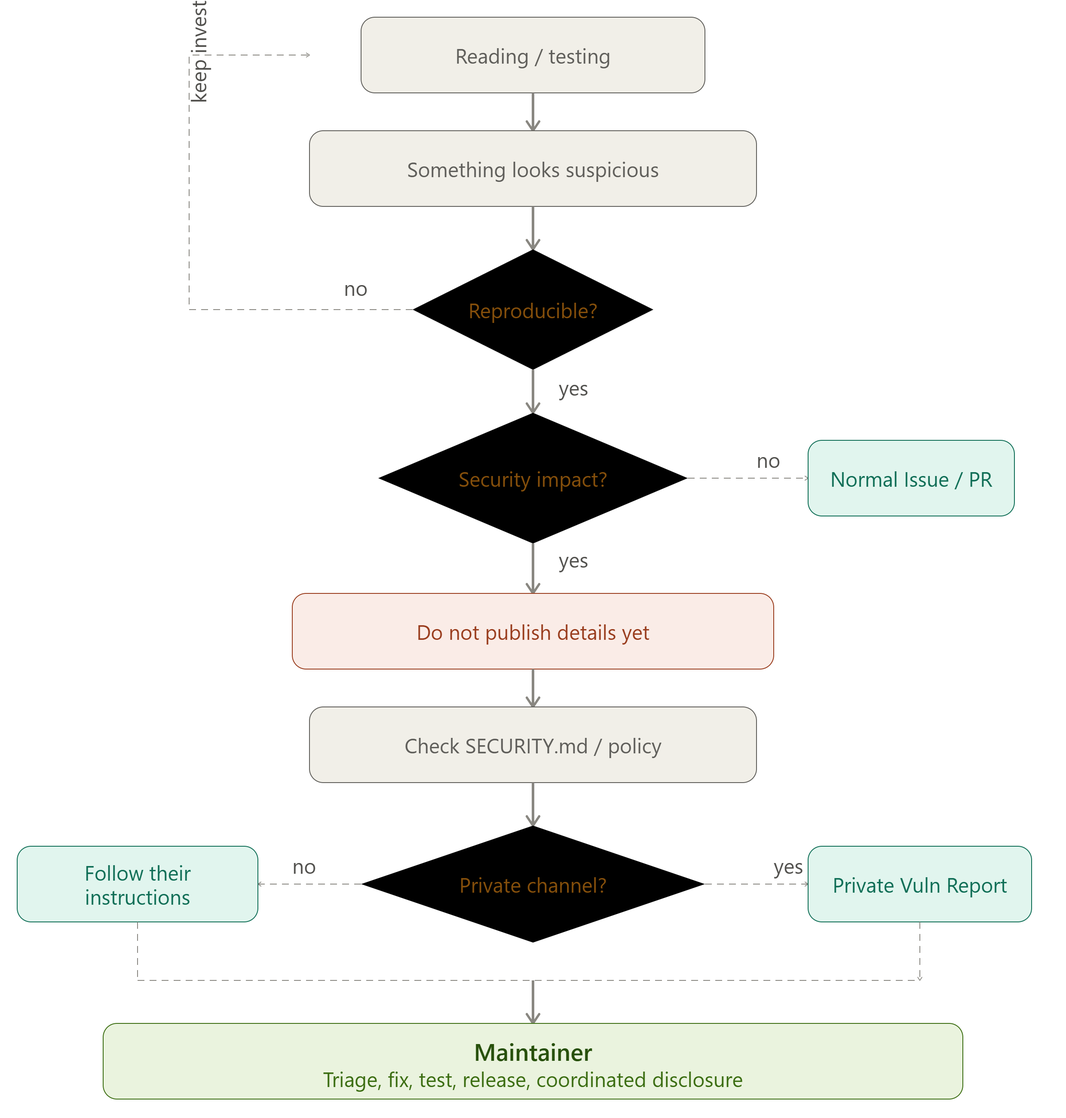
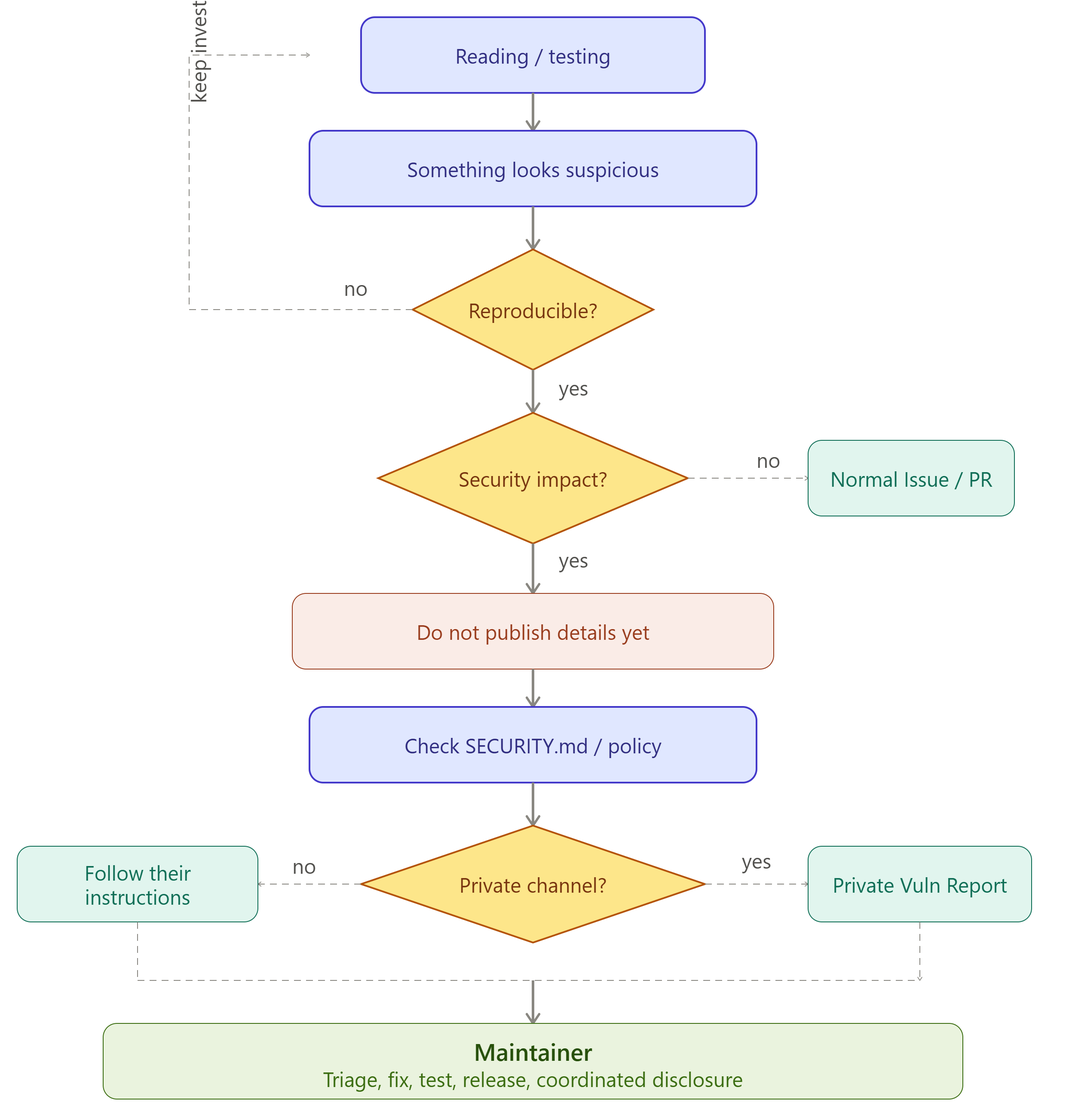
Group paragraphs in the responsible disclosure post
The Spanish draft came in short single sentences and each one was laid
out as its own <p>, which read as scattered next to the other two posts:
39 paragraphs averaging 21 words here, against 14/32 for Clean Code and
11/64 for the Canary post. Now 23 paragraphs averaging 35 words, with no
wording changed, only related sentences pulled into the same paragraph
in both languages. "Wow." and the closing line about revoking privileges
stay on their own, they work as beats.

Keys merged and renumbered accordingly. DE/EN parity: 334 keys each.

Also swaps in the recoloured decision tree diagram (same filename and
dimensions, so no markup change).

diff --git a/js/translations.js b/js/translations.js
@@ -319,57 +319,41 @@ const translations = {
     rd_title: 'Ich habe eine Schwachstelle in einem Open-Source-Projekt gefunden. Und jetzt?',
     rd_date: '15. August 2026',
     rd_summary: 'Wie ich beim Ausprobieren einer Open-Source-Anwendung auf ein Sicherheitsproblem gestoßen bin, und was ich dabei über Responsible Disclosure, GitHub Security Advisories und CWE gelernt habe.',
-    rd_p1: 'Ich habe eine Open-Source-Anwendung ausprobiert, als ich auf etwas gestoßen bin, mit dem ich nicht gerechnet hatte.',
-    rd_p2: 'Am Anfang war es einfach dieses Gefühl: "Moment mal... sollte das gerade wirklich passieren?"',
-    rd_p3: 'Ich habe weiter nachgeforscht und angefangen zu vermuten, dass es sich um ein Sicherheitsproblem handeln könnte.',
-    rd_p4: 'Und da kam ein Gefühl auf, das sich deutlich von dem unterscheidet, das man hat, wenn man irgendeinen beliebigen Bug findet.',
-    rd_p5: 'Wow.',
-    rd_p6: 'Auf einmal war ich motiviert. Ich wollte verstehen, was da passiert, es überprüfen und, falls es wirklich eine Schwachstelle war, dabei helfen, sie zu beheben.',
-    rd_p7: 'Aber zuerst stand das Wichtigste an: es reproduzieren.',
-    rd_p8: 'Ich wollte keinen Verdacht und kein False Positive melden. Ich musste sicher sein, dass das Verhalten echt ist, verstehen, unter welchen Bedingungen es auftritt, und prüfen, welche Auswirkung es haben kann.',
-    rd_p9: 'Nachdem ich es reproduziert und besser verstanden hatte, was da vor sich geht, kam die nächste Frage: Wie meldet man eigentlich verantwortungsvoll eine Schwachstelle in einem Open-Source-Projekt?',
-    rd_p10: 'Und an dieser Stelle habe ich etwas entdeckt, das meiner Meinung nach mehr Entwicklerinnen und Entwickler kennen sollten: GitHub Security Advisories und Private Vulnerability Reporting.',
+    rd_p1: 'Ich habe eine Open-Source-Anwendung ausprobiert, als ich auf etwas gestoßen bin, mit dem ich nicht gerechnet hatte. Am Anfang war es einfach dieses Gefühl: "Moment mal... sollte das gerade wirklich passieren?" Ich habe weiter nachgeforscht und angefangen zu vermuten, dass es sich um ein Sicherheitsproblem handeln könnte. Und da kam ein Gefühl auf, das sich deutlich von dem unterscheidet, das man hat, wenn man irgendeinen beliebigen Bug findet.',
+    rd_p2: 'Wow.',
+    rd_p3: 'Auf einmal war ich motiviert. Ich wollte verstehen, was da passiert, es überprüfen und, falls es wirklich eine Schwachstelle war, dabei helfen, sie zu beheben. Aber zuerst stand das Wichtigste an: es reproduzieren.',
+    rd_p4: 'Ich wollte keinen Verdacht und kein False Positive melden. Ich musste sicher sein, dass das Verhalten echt ist, verstehen, unter welchen Bedingungen es auftritt, und prüfen, welche Auswirkung es haben kann. Nachdem ich es reproduziert und besser verstanden hatte, was da vor sich geht, kam die nächste Frage: Wie meldet man eigentlich verantwortungsvoll eine Schwachstelle in einem Open-Source-Projekt?',
+    rd_p5: 'Und an dieser Stelle habe ich etwas entdeckt, das meiner Meinung nach mehr Entwicklerinnen und Entwickler kennen sollten: GitHub Security Advisories und Private Vulnerability Reporting.',
     rd_h_issue: 'Nicht jeder Bug sollte zu einem Issue werden',
-    rd_issue_1: 'Wenn du in einem Open-Source-Projekt einen ganz normalen Bug findest, ist es vermutlich üblich, ein Issue zu eröffnen oder einen Pull Request vorzubereiten.',
-    rd_issue_2: 'Eine Schwachstelle ist aber etwas anderes.',
-    rd_issue_3: 'Wenn wir die Details eines Sicherheitsproblems sofort veröffentlichen, sorgen wir womöglich dafür, dass die Information jeden erreicht, bevor die Maintainer Zeit hatten, es zu beheben.',
-    rd_issue_4: 'Und das kann besonders problematisch sein, wenn das Projekt Nutzer hat, die eine verwundbare Version einsetzen.',
-    rd_issue_5: 'Deshalb gibt es das Konzept Responsible Disclosure: das Problem so zu kommunizieren, dass das Projekt eine faire Gelegenheit bekommt, es zu untersuchen und zu beheben, bevor die Details öffentlich werden.',
+    rd_issue_1: 'Wenn du in einem Open-Source-Projekt einen ganz normalen Bug findest, ist es vermutlich üblich, ein Issue zu eröffnen oder einen Pull Request vorzubereiten. Eine Schwachstelle ist aber etwas anderes.',
+    rd_issue_2: 'Wenn wir die Details eines Sicherheitsproblems sofort veröffentlichen, sorgen wir womöglich dafür, dass die Information jeden erreicht, bevor die Maintainer Zeit hatten, es zu beheben. Und das kann besonders problematisch sein, wenn das Projekt Nutzer hat, die eine verwundbare Version einsetzen.',
+    rd_issue_3: 'Deshalb gibt es das Konzept Responsible Disclosure: das Problem so zu kommunizieren, dass das Projekt eine faire Gelegenheit bekommt, es zu untersuchen und zu beheben, bevor die Details öffentlich werden.',
     rd_h_advisory: 'GitHub Security Advisory',
-    rd_adv_1: 'GitHub hat für genau solche Situationen ein eigenes Werkzeug: Private Vulnerability Reporting.',
-    rd_adv_2: 'Die Idee finde ich ziemlich gut. Statt ein öffentliches Issue zu eröffnen, in dem es alle sehen können und das Problem offenliegt, kannst du einen privaten Kanal nutzen: Der Maintainer bekommt den Report, untersucht ihn, bereitet einen Fix vor und testet ihn, veröffentlicht ihn, und erst danach folgt die koordinierte Offenlegung.',
+    rd_adv_1: 'GitHub hat für genau solche Situationen ein eigenes Werkzeug: Private Vulnerability Reporting. Die Idee finde ich ziemlich gut. Statt ein öffentliches Issue zu eröffnen, in dem es alle sehen können und das Problem offenliegt, kannst du einen privaten Kanal nutzen: Der Maintainer bekommt den Report, untersucht ihn, bereitet einen Fix vor und testet ihn, veröffentlicht ihn, und erst danach folgt die koordinierte Offenlegung.',
     rd_alt_issue_vs_advisory: 'Vergleich zwischen einem öffentlichen Issue, bei dem alle das Problem sofort sehen, und einem privaten Security Advisory, das die Details während Untersuchung, Fix, Tests und Release vertraulich hält, bis hin zur koordinierten Offenlegung.',
-    rd_adv_3: 'Während dieses gesamten Prozesses bleiben die Details der Schwachstelle privat.',
-    rd_adv_4: 'Und genau das finde ich an diesem Mechanismus interessant. Du versuchst nicht, unbegrenzt zu verstecken, dass es ein Problem gibt. Du gibst dem Projekt etwas sehr Wichtiges: Zeit.',
-    rd_adv_5: 'Zeit, um zu verstehen, was passiert. Zeit, um eine Lösung vorzubereiten. Zeit, um sie zu testen. Und Zeit, um eine korrigierte Version zu veröffentlichen, bevor öffentlich erklärt wird, wie sich die verwundbare Version ausnutzen lässt.',
+    rd_adv_2: 'Während dieses gesamten Prozesses bleiben die Details der Schwachstelle privat. Und genau das finde ich an diesem Mechanismus interessant. Du versuchst nicht, unbegrenzt zu verstecken, dass es ein Problem gibt. Du gibst dem Projekt etwas sehr Wichtiges: Zeit.',
+    rd_adv_3: 'Zeit, um zu verstehen, was passiert. Zeit, um eine Lösung vorzubereiten. Zeit, um sie zu testen. Und Zeit, um eine korrigierte Version zu veröffentlichen, bevor öffentlich erklärt wird, wie sich die verwundbare Version ausnutzen lässt.',
     rd_h_cwe: 'Etwas, das ich unterwegs entdeckt habe: CWE',
-    rd_cwe_1: 'Während ich das Problem untersucht und dokumentiert habe, bin ich nebenbei auch tiefer in CWE eingestiegen, Common Weakness Enumeration.',
-    rd_cwe_2: 'CWE wird von MITRE gepflegt und liefert eine gemeinsame Klassifikation, um verschiedene Arten von Softwareschwächen zu beschreiben. Zum Beispiel:',
+    rd_cwe_1: 'Während ich das Problem untersucht und dokumentiert habe, bin ich nebenbei auch tiefer in CWE eingestiegen, Common Weakness Enumeration. CWE wird von MITRE gepflegt und liefert eine gemeinsame Klassifikation, um verschiedene Arten von Softwareschwächen zu beschreiben. Zum Beispiel:',
     rd_cwe_item_1: 'CWE-22, Path Traversal',
     rd_cwe_item_2: 'CWE-79, Cross-Site Scripting',
     rd_cwe_item_3: 'CWE-89, SQL Injection',
     rd_cwe_item_4: 'CWE-862, Missing Authorization',
     rd_cwe_item_5: 'CWE-269, Improper Privilege Management',
-    rd_cwe_3: 'Letzteres fand ich besonders interessant, wegen seines Bezugs zu dem Problem, das ich gefunden hatte.',
-    rd_cwe_4: 'CWE-269 beschreibt ganz allgemein Situationen, in denen die Privilegien eines Nutzers nicht korrekt verwaltet werden.',
+    rd_cwe_2: 'Letzteres fand ich besonders interessant, wegen seines Bezugs zu dem Problem, das ich gefunden hatte. CWE-269 beschreibt ganz allgemein Situationen, in denen die Privilegien eines Nutzers nicht korrekt verwaltet werden.',
     rd_alt_cwe269: 'Illustration zu CWE-269, unsachgemäße Verwaltung von Privilegien: Ein Nutzer ohne ausreichende Berechtigungen schafft es, eine Aktion auszuführen, die für ihn gesperrt sein sollte.',
-    rd_cwe_5: 'Und ich glaube, es gibt eine interessante Frage, die wir uns beim Thema Autorisierung stellen können: nicht nur "darf dieser Nutzer das tun?", sondern auch "was passiert, wenn er es nicht mehr darf?"',
-    rd_cwe_6: 'Rechte zu vergeben ist eine Operation. Sie korrekt wieder zu entziehen ebenfalls.',
+    rd_cwe_3: 'Und ich glaube, es gibt eine interessante Frage, die wir uns beim Thema Autorisierung stellen können: nicht nur "darf dieser Nutzer das tun?", sondern auch "was passiert, wenn er es nicht mehr darf?"',
+    rd_cwe_4: 'Rechte zu vergeben ist eine Operation. Sie korrekt wieder zu entziehen ebenfalls.',
     rd_h_whatdo: 'Was mache ich also, wenn mir so etwas begegnet?',
     rd_what_1: 'Es gibt keinen einzigen gültigen Prozess für alle Projekte, aber das hier kann ein guter Ausgangspunkt sein:',
     rd_alt_decision_tree: 'Entscheidungsbaum von dem Moment an, in dem du etwas Verdächtiges findest, bis zur koordinierten Offenlegung: prüfen, ob es reproduzierbar ist, prüfen, ob es eine Sicherheitsauswirkung hat, und in dem Fall dem Prozess für private Schwachstellenmeldungen über Triage, Fix, Tests und Release folgen.',
-    rd_what_2: 'Der erste Teil ist für mich der wichtigste: erst reproduzieren.',
-    rd_what_3: 'Etwas zu finden, das nach einer Schwachstelle aussieht, kann aufregend sein, aber es ist auch leicht, zu schnell Schlüsse zu ziehen.',
-    rd_what_4: 'Eine saubere Reproduktion verändert den Report komplett. Du sagst dann nicht mehr "ich glaube, hier könnte ein Problem sein". Du kannst sagen "ich habe dieses Verhalten unter diesen Bedingungen reproduziert, und das ist die Auswirkung, die ich beobachtet habe".',
-    rd_what_5: 'Das erleichtert den Maintainern die Arbeit enorm.',
+    rd_what_2: 'Der erste Teil ist für mich der wichtigste: erst reproduzieren. Etwas zu finden, das nach einer Schwachstelle aussieht, kann aufregend sein, aber es ist auch leicht, zu schnell Schlüsse zu ziehen.',
+    rd_what_3: 'Eine saubere Reproduktion verändert den Report komplett. Du sagst dann nicht mehr "ich glaube, hier könnte ein Problem sein". Du kannst sagen "ich habe dieses Verhalten unter diesen Bedingungen reproduziert, und das ist die Auswirkung, die ich beobachtet habe". Das erleichtert den Maintainern die Arbeit enorm.',
     rd_h_exp: 'Eine Erfahrung, die mir besonders gefallen hat',
-    rd_exp_1: 'Am meisten überrascht hat mich an alledem, dass das Entdecken einer Schwachstelle etwas ausgelöst hat, womit ich nicht gerechnet hatte: Lust, beizutragen.',
-    rd_exp_2: 'Nicht nur das Problem zu finden und zu sagen "schaut mal, was ich gefunden habe", sondern dabei zu helfen, es zu lösen.',
-    rd_exp_3: 'Und ich glaube, das ist einer der schönen Teile von Open Source. Du kannst gerade eine Anwendung benutzen, aus Neugier Code lesen oder versuchen zu verstehen, wie ein bestimmter Teil des Systems funktioniert, und plötzlich stößt du auf etwas, das es wert ist, repariert zu werden.',
-    rd_exp_4: 'In diesem Moment musst du kein Security Researcher sein. Du brauchst Neugier, du musst überprüfen, was du da siehst, und, falls es wirklich ein Problem ist, es verantwortungsvoll melden.',
-    rd_exp_5: 'GitHub stellt einen Teil der dafür nötigen Infrastruktur bereits bereit.',
-    rd_exp_6: 'Vielleicht lohnt es sich beim nächsten Mal, wenn du auf so etwas stößt, statt direkt ein öffentliches Issue zu eröffnen, erst einmal zu suchen: SECURITY.md, Security Policy, Private Vulnerability Reporting, Security Advisory.',
-    rd_exp_7: 'Vielleicht findest du einen viel besseren Weg, es zu melden. Und nebenbei kannst du dabei richtig viel lernen.',
+    rd_exp_1: 'Am meisten überrascht hat mich an alledem, dass das Entdecken einer Schwachstelle etwas ausgelöst hat, womit ich nicht gerechnet hatte: Lust, beizutragen. Nicht nur das Problem zu finden und zu sagen "schaut mal, was ich gefunden habe", sondern dabei zu helfen, es zu lösen.',
+    rd_exp_2: 'Und ich glaube, das ist einer der schönen Teile von Open Source. Du kannst gerade eine Anwendung benutzen, aus Neugier Code lesen oder versuchen zu verstehen, wie ein bestimmter Teil des Systems funktioniert, und plötzlich stößt du auf etwas, das es wert ist, repariert zu werden.',
+    rd_exp_3: 'In diesem Moment musst du kein Security Researcher sein. Du brauchst Neugier, du musst überprüfen, was du da siehst, und, falls es wirklich ein Problem ist, es verantwortungsvoll melden. GitHub stellt einen Teil der dafür nötigen Infrastruktur bereits bereit.',
+    rd_exp_4: 'Vielleicht lohnt es sich beim nächsten Mal, wenn du auf so etwas stößt, statt direkt ein öffentliches Issue zu eröffnen, erst einmal zu suchen: SECURITY.md, Security Policy, Private Vulnerability Reporting, Security Advisory. Vielleicht findest du einen viel besseren Weg, es zu melden. Und nebenbei kannst du dabei richtig viel lernen.',
 
     footer_text: '© 2026 KettenKI. Entwickelt mit Präzision.',
   },
@@ -694,57 +678,41 @@ const translations = {
     rd_title: 'I found a vulnerability in an Open Source project. What now?',
     rd_date: 'August 15, 2026',
     rd_summary: 'How I ran into a security issue while trying out an Open Source application, and what I learned along the way about responsible disclosure, GitHub Security Advisories and CWE.',
-    rd_p1: 'I was trying out an Open Source application when I found something I did not expect.',
-    rd_p2: 'At first it was simply that feeling of: "Wait... should this be happening?"',
-    rd_p3: 'I kept digging and started to suspect it could be a security issue.',
-    rd_p4: 'And that brought up a feeling quite different from the one you get when you find just any bug.',
-    rd_p5: 'Wow.',
-    rd_p6: 'All of a sudden I felt motivated. I wanted to understand what was going on, verify it and, if it really was a vulnerability, help get it fixed.',
-    rd_p7: 'But before anything else came the most important part: reproducing it.',
-    rd_p8: 'I did not want to report a suspicion or a false positive. I needed to be sure the behaviour was real, to understand under which conditions it happened, and to check what its impact could be.',
-    rd_p9: 'After reproducing it and getting a better picture of what was going on, the next question arrived: how do you responsibly report a vulnerability in an Open Source project?',
-    rd_p10: 'And this is where I discovered something I think more developers should know about: GitHub Security Advisories and Private Vulnerability Reporting.',
+    rd_p1: 'I was trying out an Open Source application when I found something I did not expect. At first it was simply that feeling of: "Wait... should this be happening?" I kept digging and started to suspect it could be a security issue. And that brought up a feeling quite different from the one you get when you find just any bug.',
+    rd_p2: 'Wow.',
+    rd_p3: 'All of a sudden I felt motivated. I wanted to understand what was going on, verify it and, if it really was a vulnerability, help get it fixed. But before anything else came the most important part: reproducing it.',
+    rd_p4: 'I did not want to report a suspicion or a false positive. I needed to be sure the behaviour was real, to understand under which conditions it happened, and to check what its impact could be. After reproducing it and getting a better picture of what was going on, the next question arrived: how do you responsibly report a vulnerability in an Open Source project?',
+    rd_p5: 'And this is where I discovered something I think more developers should know about: GitHub Security Advisories and Private Vulnerability Reporting.',
     rd_h_issue: 'Not every bug should become an Issue',
-    rd_issue_1: 'When you find a normal bug in an Open Source project, the usual thing is probably to open an Issue or prepare a Pull Request.',
-    rd_issue_2: 'But a vulnerability is different.',
-    rd_issue_3: 'If we immediately publish the details of a security problem, we may be handing that information to anyone before the maintainers have had time to fix it.',
-    rd_issue_4: 'And that can be especially problematic if the project has users running a vulnerable version.',
-    rd_issue_5: 'That is why the concept of responsible disclosure exists: communicating the problem in a way that gives the project a reasonable opportunity to investigate and fix it before the details become public.',
+    rd_issue_1: 'When you find a normal bug in an Open Source project, the usual thing is probably to open an Issue or prepare a Pull Request. But a vulnerability is different.',
+    rd_issue_2: 'If we immediately publish the details of a security problem, we may be handing that information to anyone before the maintainers have had time to fix it. And that can be especially problematic if the project has users running a vulnerable version.',
+    rd_issue_3: 'That is why the concept of responsible disclosure exists: communicating the problem in a way that gives the project a reasonable opportunity to investigate and fix it before the details become public.',
     rd_h_advisory: 'GitHub Security Advisory',
-    rd_adv_1: 'GitHub has a specific tool for this kind of situation: Private Vulnerability Reporting.',
-    rd_adv_2: 'I think the idea is rather good. Instead of opening a public Issue, where everyone can see it and the problem is exposed, you can use a private channel: the maintainer receives the report, investigates it, prepares and tests a fix, ships it, and only then comes the coordinated disclosure.',
+    rd_adv_1: 'GitHub has a specific tool for this kind of situation: Private Vulnerability Reporting. I think the idea is rather good. Instead of opening a public Issue, where everyone can see it and the problem is exposed, you can use a private channel: the maintainer receives the report, investigates it, prepares and tests a fix, ships it, and only then comes the coordinated disclosure.',
     rd_alt_issue_vs_advisory: 'Comparison between publishing a public Issue, where everyone sees the problem right away, and using a private Security Advisory, which keeps the details confidential during investigation, fix, testing and release, up to the coordinated disclosure.',
-    rd_adv_3: 'Throughout that whole process, the details of the vulnerability stay private.',
-    rd_adv_4: 'And that is precisely what I find interesting about this mechanism. You are not trying to hide the existence of a problem indefinitely. You are giving the project something very important: time.',
-    rd_adv_5: 'Time to understand what is happening. Time to prepare a fix. Time to test it. And time to release a corrected version before explaining publicly how to exploit the vulnerable one.',
+    rd_adv_2: 'Throughout that whole process, the details of the vulnerability stay private. And that is precisely what I find interesting about this mechanism. You are not trying to hide the existence of a problem indefinitely. You are giving the project something very important: time.',
+    rd_adv_3: 'Time to understand what is happening. Time to prepare a fix. Time to test it. And time to release a corrected version before explaining publicly how to exploit the vulnerable one.',
     rd_h_cwe: 'One thing I discovered along the way: CWE',
-    rd_cwe_1: 'While I was investigating and documenting the problem, I also ended up digging into CWE, Common Weakness Enumeration.',
-    rd_cwe_2: 'CWE, maintained by MITRE, provides a common classification for describing different types of software weaknesses. For example:',
+    rd_cwe_1: 'While I was investigating and documenting the problem, I also ended up digging into CWE, Common Weakness Enumeration. CWE, maintained by MITRE, provides a common classification for describing different types of software weaknesses. For example:',
     rd_cwe_item_1: 'CWE-22, Path Traversal',
     rd_cwe_item_2: 'CWE-79, Cross-Site Scripting',
     rd_cwe_item_3: 'CWE-89, SQL Injection',
     rd_cwe_item_4: 'CWE-862, Missing Authorization',
     rd_cwe_item_5: 'CWE-269, Improper Privilege Management',
-    rd_cwe_3: 'That last one felt especially interesting to me because of its relation to the problem I had found.',
-    rd_cwe_4: 'CWE-269 covers, broadly speaking, situations where a user\'s privileges are not managed correctly.',
+    rd_cwe_2: 'That last one felt especially interesting to me because of its relation to the problem I had found. CWE-269 covers, broadly speaking, situations where a user\'s privileges are not managed correctly.',
     rd_alt_cwe269: 'Illustration of CWE-269, improper privilege management: a user without sufficient permissions manages to perform an action that should be blocked for them.',
-    rd_cwe_5: 'And I think there is an interesting question we can ask ourselves when working with authorization: not only "can this user do this?", but also "what happens when they can no longer do it?"',
-    rd_cwe_6: 'Granting permissions is an operation. Revoking them properly is one too.',
+    rd_cwe_3: 'And I think there is an interesting question we can ask ourselves when working with authorization: not only "can this user do this?", but also "what happens when they can no longer do it?"',
+    rd_cwe_4: 'Granting permissions is an operation. Revoking them properly is one too.',
     rd_h_whatdo: 'So what do I do if I run into something like this?',
     rd_what_1: 'There is no single valid process that fits every project, but this can be a good starting point:',
     rd_alt_decision_tree: 'Decision tree from the moment you find something suspicious to the coordinated disclosure: check whether it is reproducible, check whether it has a security impact, and if so follow the private vulnerability reporting process through triage, fix, testing and release.',
-    rd_what_2: 'The first part is, for me, the most important one: reproduce it first.',
-    rd_what_3: 'Finding something that looks like a vulnerability can be exciting, but it is also easy to jump to conclusions too quickly.',
-    rd_what_4: 'A clear reproduction changes the report completely. You are no longer saying "I think there might be a problem here". You can say "I reproduced this behaviour under these conditions and this is the impact I observed".',
-    rd_what_5: 'That makes the maintainer\'s job so much easier.',
+    rd_what_2: 'The first part is, for me, the most important one: reproduce it first. Finding something that looks like a vulnerability can be exciting, but it is also easy to jump to conclusions too quickly.',
+    rd_what_3: 'A clear reproduction changes the report completely. You are no longer saying "I think there might be a problem here". You can say "I reproduced this behaviour under these conditions and this is the impact I observed". That makes the maintainer\'s job so much easier.',
     rd_h_exp: 'An experience I especially enjoyed',
-    rd_exp_1: 'What surprised me most about all this is that discovering a vulnerability produced something I did not expect: the urge to contribute.',
-    rd_exp_2: 'Not only to find the problem and say "look what I found", but to help fix it.',
-    rd_exp_3: 'And I think this is one of the beautiful parts of Open Source. You might be using an application, reading code out of curiosity or trying to understand how a certain part of the system works and, suddenly, you find something worth fixing.',
-    rd_exp_4: 'In that moment you do not need to be a security researcher. You need curiosity, you need to verify what you are seeing and, if it really is a problem, report it responsibly.',
-    rd_exp_5: 'GitHub already provides part of the infrastructure needed to do that.',
-    rd_exp_6: 'Maybe next time you find something like this, instead of opening a public Issue straight away, it is worth looking first for: SECURITY.md, Security Policy, Private Vulnerability Reporting, Security Advisory.',
-    rd_exp_7: 'You might find a much better path to report it. And on top of that, you can end up learning a lot along the way.',
+    rd_exp_1: 'What surprised me most about all this is that discovering a vulnerability produced something I did not expect: the urge to contribute. Not only to find the problem and say "look what I found", but to help fix it.',
+    rd_exp_2: 'And I think this is one of the beautiful parts of Open Source. You might be using an application, reading code out of curiosity or trying to understand how a certain part of the system works and, suddenly, you find something worth fixing.',
+    rd_exp_3: 'In that moment you do not need to be a security researcher. You need curiosity, you need to verify what you are seeing and, if it really is a problem, report it responsibly. GitHub already provides part of the infrastructure needed to do that.',
+    rd_exp_4: 'Maybe next time you find something like this, instead of opening a public Issue straight away, it is worth looking first for: SECURITY.md, Security Policy, Private Vulnerability Reporting, Security Advisory. You might find a much better path to report it. And on top of that, you can end up learning a lot along the way.',
 
     footer_text: '© 2026 KettenKI. Built with precision.',
   }

diff --git a/blog/responsible-disclosure.html b/blog/responsible-disclosure.html
@@ -76,16 +76,11 @@
       </div>
 
       <div class="fade-in">
-        <p data-i18n="rd_p1">Ich habe eine Open-Source-Anwendung ausprobiert, als ich auf etwas gestoßen bin, mit dem ich nicht gerechnet hatte.</p>
-        <p data-i18n="rd_p2">Am Anfang war es einfach dieses Gefühl: "Moment mal... sollte das gerade wirklich passieren?"</p>
-        <p data-i18n="rd_p3">Ich habe weiter nachgeforscht und angefangen zu vermuten, dass es sich um ein Sicherheitsproblem handeln könnte.</p>
-        <p data-i18n="rd_p4">Und da kam ein Gefühl auf, das sich deutlich von dem unterscheidet, das man hat, wenn man irgendeinen beliebigen Bug findet.</p>
-        <p data-i18n="rd_p5">Wow.</p>
-        <p data-i18n="rd_p6">Auf einmal war ich motiviert. Ich wollte verstehen, was da passiert, es überprüfen und, falls es wirklich eine Schwachstelle war, dabei helfen, sie zu beheben.</p>
-        <p data-i18n="rd_p7">Aber zuerst stand das Wichtigste an: es reproduzieren.</p>
-        <p data-i18n="rd_p8">Ich wollte keinen Verdacht und kein False Positive melden. Ich musste sicher sein, dass das Verhalten echt ist, verstehen, unter welchen Bedingungen es auftritt, und prüfen, welche Auswirkung es haben kann.</p>
-        <p data-i18n="rd_p9">Nachdem ich es reproduziert und besser verstanden hatte, was da vor sich geht, kam die nächste Frage: Wie meldet man eigentlich verantwortungsvoll eine Schwachstelle in einem Open-Source-Projekt?</p>
-        <p data-i18n="rd_p10">Und an dieser Stelle habe ich etwas entdeckt, das meiner Meinung nach mehr Entwicklerinnen und Entwickler kennen sollten: GitHub Security Advisories und Private Vulnerability Reporting.</p>
+        <p data-i18n="rd_p1">Ich habe eine Open-Source-Anwendung ausprobiert, als ich auf etwas gestoßen bin, mit dem ich nicht gerechnet hatte. Am Anfang war es einfach dieses Gefühl: "Moment mal... sollte das gerade wirklich passieren?" Ich habe weiter nachgeforscht und angefangen zu vermuten, dass es sich um ein Sicherheitsproblem handeln könnte. Und da kam ein Gefühl auf, das sich deutlich von dem unterscheidet, das man hat, wenn man irgendeinen beliebigen Bug findet.</p>
+        <p data-i18n="rd_p2">Wow.</p>
+        <p data-i18n="rd_p3">Auf einmal war ich motiviert. Ich wollte verstehen, was da passiert, es überprüfen und, falls es wirklich eine Schwachstelle war, dabei helfen, sie zu beheben. Aber zuerst stand das Wichtigste an: es reproduzieren.</p>
+        <p data-i18n="rd_p4">Ich wollte keinen Verdacht und kein False Positive melden. Ich musste sicher sein, dass das Verhalten echt ist, verstehen, unter welchen Bedingungen es auftritt, und prüfen, welche Auswirkung es haben kann. Nachdem ich es reproduziert und besser verstanden hatte, was da vor sich geht, kam die nächste Frage: Wie meldet man eigentlich verantwortungsvoll eine Schwachstelle in einem Open-Source-Projekt?</p>
+        <p data-i18n="rd_p5">Und an dieser Stelle habe ich etwas entdeckt, das meiner Meinung nach mehr Entwicklerinnen und Entwickler kennen sollten: GitHub Security Advisories und Private Vulnerability Reporting.</p>
       </div>
 
       <!-- Ein .fade-in pro Abschnitt statt eines einzigen um den ganzen
@@ -95,33 +90,28 @@
            Laden nie und bliebe unter dem Titel unsichtbar. -->
       <div class="fade-in">
         <h2 data-i18n="rd_h_issue">Nicht jeder Bug sollte zu einem Issue werden</h2>
-        <p data-i18n="rd_issue_1">Wenn du in einem Open-Source-Projekt einen ganz normalen Bug findest, ist es vermutlich üblich, ein Issue zu eröffnen oder einen Pull Request vorzubereiten.</p>
-        <p data-i18n="rd_issue_2">Eine Schwachstelle ist aber etwas anderes.</p>
-        <p data-i18n="rd_issue_3">Wenn wir die Details eines Sicherheitsproblems sofort veröffentlichen, sorgen wir womöglich dafür, dass die Information jeden erreicht, bevor die Maintainer Zeit hatten, es zu beheben.</p>
-        <p data-i18n="rd_issue_4">Und das kann besonders problematisch sein, wenn das Projekt Nutzer hat, die eine verwundbare Version einsetzen.</p>
-        <p data-i18n="rd_issue_5">Deshalb gibt es das Konzept Responsible Disclosure: das Problem so zu kommunizieren, dass das Projekt eine faire Gelegenheit bekommt, es zu untersuchen und zu beheben, bevor die Details öffentlich werden.</p>
+        <p data-i18n="rd_issue_1">Wenn du in einem Open-Source-Projekt einen ganz normalen Bug findest, ist es vermutlich üblich, ein Issue zu eröffnen oder einen Pull Request vorzubereiten. Eine Schwachstelle ist aber etwas anderes.</p>
+        <p data-i18n="rd_issue_2">Wenn wir die Details eines Sicherheitsproblems sofort veröffentlichen, sorgen wir womöglich dafür, dass die Information jeden erreicht, bevor die Maintainer Zeit hatten, es zu beheben. Und das kann besonders problematisch sein, wenn das Projekt Nutzer hat, die eine verwundbare Version einsetzen.</p>
+        <p data-i18n="rd_issue_3">Deshalb gibt es das Konzept Responsible Disclosure: das Problem so zu kommunizieren, dass das Projekt eine faire Gelegenheit bekommt, es zu untersuchen und zu beheben, bevor die Details öffentlich werden.</p>
 
       </div>
 
       <div class="fade-in">
         <h2 data-i18n="rd_h_advisory">GitHub Security Advisory</h2>
-        <p data-i18n="rd_adv_1">GitHub hat für genau solche Situationen ein eigenes Werkzeug: Private Vulnerability Reporting.</p>
-        <p data-i18n="rd_adv_2">Die Idee finde ich ziemlich gut. Statt ein öffentliches Issue zu eröffnen, in dem es alle sehen können und das Problem offenliegt, kannst du einen privaten Kanal nutzen: Der Maintainer bekommt den Report, untersucht ihn, bereitet einen Fix vor und testet ihn, veröffentlicht ihn, und erst danach folgt die koordinierte Offenlegung.</p>
+        <p data-i18n="rd_adv_1">GitHub hat für genau solche Situationen ein eigenes Werkzeug: Private Vulnerability Reporting. Die Idee finde ich ziemlich gut. Statt ein öffentliches Issue zu eröffnen, in dem es alle sehen können und das Problem offenliegt, kannst du einen privaten Kanal nutzen: Der Maintainer bekommt den Report, untersucht ihn, bereitet einen Fix vor und testet ihn, veröffentlicht ihn, und erst danach folgt die koordinierte Offenlegung.</p>
 
         <div class="architecture-block">
           <img src="img/responsible-disclosure/public_issue_vs_security_advisory.png" alt="Vergleich zwischen einem öffentlichen Issue, bei dem alle das Problem sofort sehen, und einem privaten Security Advisory, das die Details während Untersuchung, Fix, Tests und Release vertraulich hält, bis hin zur koordinierten Offenlegung." data-i18n-alt="rd_alt_issue_vs_advisory">
         </div>
 
-        <p data-i18n="rd_adv_3">Während dieses gesamten Prozesses bleiben die Details der Schwachstelle privat.</p>
-        <p data-i18n="rd_adv_4">Und genau das finde ich an diesem Mechanismus interessant. Du versuchst nicht, unbegrenzt zu verstecken, dass es ein Problem gibt. Du gibst dem Projekt etwas sehr Wichtiges: Zeit.</p>
-        <p data-i18n="rd_adv_5">Zeit, um zu verstehen, was passiert. Zeit, um eine Lösung vorzubereiten. Zeit, um sie zu testen. Und Zeit, um eine korrigierte Version zu veröffentlichen, bevor öffentlich erklärt wird, wie sich die verwundbare Version ausnutzen lässt.</p>
+        <p data-i18n="rd_adv_2">Während dieses gesamten Prozesses bleiben die Details der Schwachstelle privat. Und genau das finde ich an diesem Mechanismus interessant. Du versuchst nicht, unbegrenzt zu verstecken, dass es ein Problem gibt. Du gibst dem Projekt etwas sehr Wichtiges: Zeit.</p>
+        <p data-i18n="rd_adv_3">Zeit, um zu verstehen, was passiert. Zeit, um eine Lösung vorzubereiten. Zeit, um sie zu testen. Und Zeit, um eine korrigierte Version zu veröffentlichen, bevor öffentlich erklärt wird, wie sich die verwundbare Version ausnutzen lässt.</p>
 
       </div>
 
       <div class="fade-in">
         <h2 data-i18n="rd_h_cwe">Etwas, das ich unterwegs entdeckt habe: CWE</h2>
-        <p data-i18n="rd_cwe_1">Während ich das Problem untersucht und dokumentiert habe, bin ich nebenbei auch tiefer in CWE eingestiegen, Common Weakness Enumeration.</p>
-        <p data-i18n="rd_cwe_2">CWE wird von MITRE gepflegt und liefert eine gemeinsame Klassifikation, um verschiedene Arten von Softwareschwächen zu beschreiben. Zum Beispiel:</p>
+        <p data-i18n="rd_cwe_1">Während ich das Problem untersucht und dokumentiert habe, bin ich nebenbei auch tiefer in CWE eingestiegen, Common Weakness Enumeration. CWE wird von MITRE gepflegt und liefert eine gemeinsame Klassifikation, um verschiedene Arten von Softwareschwächen zu beschreiben. Zum Beispiel:</p>
 
         <ul>
           <li data-i18n="rd_cwe_item_1">CWE-22, Path Traversal</li>
@@ -131,15 +121,14 @@
           <li data-i18n="rd_cwe_item_5">CWE-269, Improper Privilege Management</li>
         </ul>
 
-        <p data-i18n="rd_cwe_3">Letzteres fand ich besonders interessant, wegen seines Bezugs zu dem Problem, das ich gefunden hatte.</p>
-        <p data-i18n="rd_cwe_4">CWE-269 beschreibt ganz allgemein Situationen, in denen die Privilegien eines Nutzers nicht korrekt verwaltet werden.</p>
+        <p data-i18n="rd_cwe_2">Letzteres fand ich besonders interessant, wegen seines Bezugs zu dem Problem, das ich gefunden hatte. CWE-269 beschreibt ganz allgemein Situationen, in denen die Privilegien eines Nutzers nicht korrekt verwaltet werden.</p>
 
         <div class="architecture-block">
           <img src="img/responsible-disclosure/CWE-269-escape-from-privileges.jpg" alt="Illustration zu CWE-269, unsachgemäße Verwaltung von Privilegien: Ein Nutzer ohne ausreichende Berechtigungen schafft es, eine Aktion auszuführen, die für ihn gesperrt sein sollte." data-i18n-alt="rd_alt_cwe269">
         </div>
 
-        <p data-i18n="rd_cwe_5">Und ich glaube, es gibt eine interessante Frage, die wir uns beim Thema Autorisierung stellen können: nicht nur "darf dieser Nutzer das tun?", sondern auch "was passiert, wenn er es nicht mehr darf?"</p>
-        <p data-i18n="rd_cwe_6">Rechte zu vergeben ist eine Operation. Sie korrekt wieder zu entziehen ebenfalls.</p>
+        <p data-i18n="rd_cwe_3">Und ich glaube, es gibt eine interessante Frage, die wir uns beim Thema Autorisierung stellen können: nicht nur "darf dieser Nutzer das tun?", sondern auch "was passiert, wenn er es nicht mehr darf?"</p>
+        <p data-i18n="rd_cwe_4">Rechte zu vergeben ist eine Operation. Sie korrekt wieder zu entziehen ebenfalls.</p>
 
       </div>
 
@@ -151,22 +140,17 @@
           <img src="img/responsible-disclosure/vulnerability_disclosure_decision_tree.png" alt="Entscheidungsbaum von dem Moment an, in dem du etwas Verdächtiges findest, bis zur koordinierten Offenlegung: prüfen, ob es reproduzierbar ist, prüfen, ob es eine Sicherheitsauswirkung hat, und in dem Fall dem Prozess für private Schwachstellenmeldungen über Triage, Fix, Tests und Release folgen." data-i18n-alt="rd_alt_decision_tree">
         </div>
 
-        <p data-i18n="rd_what_2">Der erste Teil ist für mich der wichtigste: erst reproduzieren.</p>
-        <p data-i18n="rd_what_3">Etwas zu finden, das nach einer Schwachstelle aussieht, kann aufregend sein, aber es ist auch leicht, zu schnell Schlüsse zu ziehen.</p>
-        <p data-i18n="rd_what_4">Eine saubere Reproduktion verändert den Report komplett. Du sagst dann nicht mehr "ich glaube, hier könnte ein Problem sein". Du kannst sagen "ich habe dieses Verhalten unter diesen Bedingungen reproduziert, und das ist die Auswirkung, die ich beobachtet habe".</p>
-        <p data-i18n="rd_what_5">Das erleichtert den Maintainern die Arbeit enorm.</p>
+        <p data-i18n="rd_what_2">Der erste Teil ist für mich der wichtigste: erst reproduzieren. Etwas zu finden, das nach einer Schwachstelle aussieht, kann aufregend sein, aber es ist auch leicht, zu schnell Schlüsse zu ziehen.</p>
+        <p data-i18n="rd_what_3">Eine saubere Reproduktion verändert den Report komplett. Du sagst dann nicht mehr "ich glaube, hier könnte ein Problem sein". Du kannst sagen "ich habe dieses Verhalten unter diesen Bedingungen reproduziert, und das ist die Auswirkung, die ich beobachtet habe". Das erleichtert den Maintainern die Arbeit enorm.</p>
 
       </div>
 
       <div class="fade-in">
         <h2 data-i18n="rd_h_exp">Eine Erfahrung, die mir besonders gefallen hat</h2>
-        <p data-i18n="rd_exp_1">Am meisten überrascht hat mich an alledem, dass das Entdecken einer Schwachstelle etwas ausgelöst hat, womit ich nicht gerechnet hatte: Lust, beizutragen.</p>
-        <p data-i18n="rd_exp_2">Nicht nur das Problem zu finden und zu sagen "schaut mal, was ich gefunden habe", sondern dabei zu helfen, es zu lösen.</p>
-        <p data-i18n="rd_exp_3">Und ich glaube, das ist einer der schönen Teile von Open Source. Du kannst gerade eine Anwendung benutzen, aus Neugier Code lesen oder versuchen zu verstehen, wie ein bestimmter Teil des Systems funktioniert, und plötzlich stößt du auf etwas, das es wert ist, repariert zu werden.</p>
-        <p data-i18n="rd_exp_4">In diesem Moment musst du kein Security Researcher sein. Du brauchst Neugier, du musst überprüfen, was du da siehst, und, falls es wirklich ein Problem ist, es verantwortungsvoll melden.</p>
-        <p data-i18n="rd_exp_5">GitHub stellt einen Teil der dafür nötigen Infrastruktur bereits bereit.</p>
-        <p data-i18n="rd_exp_6">Vielleicht lohnt es sich beim nächsten Mal, wenn du auf so etwas stößt, statt direkt ein öffentliches Issue zu eröffnen, erst einmal zu suchen: SECURITY.md, Security Policy, Private Vulnerability Reporting, Security Advisory.</p>
-        <p data-i18n="rd_exp_7">Vielleicht findest du einen viel besseren Weg, es zu melden. Und nebenbei kannst du dabei richtig viel lernen.</p>
+        <p data-i18n="rd_exp_1">Am meisten überrascht hat mich an alledem, dass das Entdecken einer Schwachstelle etwas ausgelöst hat, womit ich nicht gerechnet hatte: Lust, beizutragen. Nicht nur das Problem zu finden und zu sagen "schaut mal, was ich gefunden habe", sondern dabei zu helfen, es zu lösen.</p>
+        <p data-i18n="rd_exp_2">Und ich glaube, das ist einer der schönen Teile von Open Source. Du kannst gerade eine Anwendung benutzen, aus Neugier Code lesen oder versuchen zu verstehen, wie ein bestimmter Teil des Systems funktioniert, und plötzlich stößt du auf etwas, das es wert ist, repariert zu werden.</p>
+        <p data-i18n="rd_exp_3">In diesem Moment musst du kein Security Researcher sein. Du brauchst Neugier, du musst überprüfen, was du da siehst, und, falls es wirklich ein Problem ist, es verantwortungsvoll melden. GitHub stellt einen Teil der dafür nötigen Infrastruktur bereits bereit.</p>
+        <p data-i18n="rd_exp_4">Vielleicht lohnt es sich beim nächsten Mal, wenn du auf so etwas stößt, statt direkt ein öffentliches Issue zu eröffnen, erst einmal zu suchen: SECURITY.md, Security Policy, Private Vulnerability Reporting, Security Advisory. Vielleicht findest du einen viel besseren Weg, es zu melden. Und nebenbei kannst du dabei richtig viel lernen.</p>
       </div>
 
       <div class="product-cta fade-in">

diff --git a/PROJECT-STATUS.md b/PROJECT-STATUS.md
@@ -175,6 +175,10 @@ Bezieht sich auf `SPEC.md` (Portfolio, Blog & Chatbot).
   - **Hinweis zur Testumgebung:** der automatisierte Chrome-Tab meldet `document.visibilityState === 'hidden'`, Chrome liefert dort keine laufenden `IntersectionObserver`-Callbacks. Die Scroll-Reveal-Animation ließ sich deshalb nicht live durchspielen; stattdessen wurden die Geometrie-Verhältnisse (Blockhöhen gegen Viewport, siehe Bug oben) gerechnet und die Blöcke für die Screenshots manuell auf `visible` gesetzt. **Javi bitte einmal selbst im normalen Browser durchscrollen.**
   - `index.html`, `services.html`, `contact.html`, `sitemap.xml`, alle Portfolio-Fichen und die beiden bestehenden Blog-Posts unangetastet (geändert wurden nur `blog/responsible-disclosure.html` (neu), `blog/index.html`, `js/translations.js`, `css/style.css`, `SPEC.md`, `PROJECT-STATUS.md`).
 
+- [x] **Absätze im Responsible-Disclosure-Post zusammengefasst**, auf Javis Hinweis (der Post wirkte neben Clean Code und Canary-Migration "desperdigado", zu viel Abstand, zu wenig Blockbildung). Ursache war nicht das CSS (Abstand und Zeilenhöhe sind auf allen drei Posts identisch), sondern die Absatzstruktur: der spanische Entwurf kam in kurzen Einzelsätzen, und jeder davon war als eigenes `<p>` maquettiert. Gemessen: 39 Absätze mit im Schnitt 21 Wörtern, gegenüber 14/32 bei Clean Code und 11/64 beim Canary-Post. Jetzt 23 Absätze mit im Schnitt 35 Wörtern, also zwischen den beiden bestehenden Posts. **Kein einziges Wort geändert**, nur zusammenhängende Sätze in denselben Absatz gezogen, in DE und EN gleich. Die Einzeiler "Wow." und "Rechte zu vergeben ist eine Operation. Sie korrekt wieder zu entziehen ebenfalls." bleiben bewusst allein stehen, sie funktionieren als Pointe. Keys entsprechend zusammengelegt und neu durchnummeriert (`rd_p1..rd_p5`, `rd_issue_1..3`, `rd_adv_1..3`, `rd_cwe_1..4`, `rd_what_1..3`, `rd_exp_1..4`), Paritätscheck DE/EN danach: 334 Keys je Sprache.
+- [x] **Bild `vulnerability_disclosure_decision_tree.png` durch Javis neue Fassung mit anderen Farben ersetzt** (gleicher Dateiname, gleiche Maße 2480×2600, 368 statt 343 KB), keine HTML- oder CSS-Änderung nötig. Im Browser bestätigt: neue Farbgebung wird ausgeliefert, Lightbox unverändert funktionsfähig.
+- [x] **"Englische Version funktioniert nicht" war ein Cache-Effekt, kein Fehler im Code.** Javis Browser lud `js/translations.js` aus dem Disk-Cache (`transferSize: 0`), diese alte Kopie enthielt noch gar keine `rd_*`-Keys, weder DE noch EN. Deutsch sah trotzdem richtig aus, weil der deutsche Text als Fallback im HTML steht; für Englisch gibt es keinen Fallback, also blieb alles deutsch stehen. Nach erzwungener Revalidierung derselben URL liefert die Live-Seite den englischen Titel korrekt. GitHub Pages setzt `Cache-Control: max-age=600`, das Problem löst sich also nach spätestens 10 Minuten von selbst; für sofort reicht Strg+Shift+R. **Gleiches Muster wie schon zweimal zuvor in diesem Projekt dokumentiert** (Canary-Korrektur, Lora-Einführung): nach jedem Deploy, der `js/translations.js` oder `css/style.css` anfasst, zuerst hart neu laden, bevor man einen Bug vermutet.
+
 ## Blockiert — wartet auf Input
 
 _Aktuell keine offenen Blocker für RailTrack Manager — Screenshots sind geliefert und eingebaut (siehe Erledigt)._
